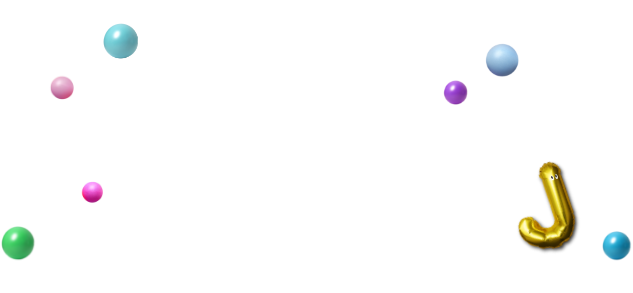
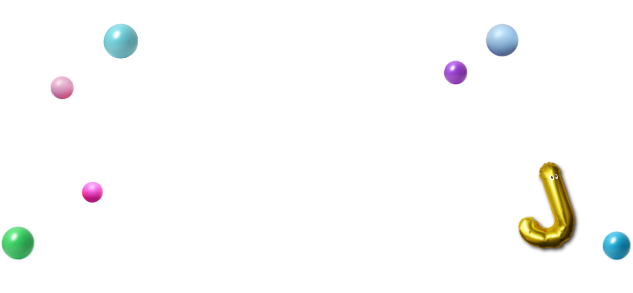
見出し小さく

Changed region(s): [[0.6904, 0.0614, 0.8404, 0.3686]]

diff --git a/items-service/css/items-service.css b/items-service/css/items-service.css
@@ -8,8 +8,8 @@
 ============================================================================================================ */
 .items-service_header {
 	position: relative;
-	height: 330px;
-	padding-top: 60px;
+	height: 270px;
+	padding-top: 50px;
 	text-align: center;
 	z-index: 1;
 }
@@ -33,14 +33,14 @@
 }
 .items-service_header .bg_en {
 	position: absolute;
-	top: 114px;
+	top: 54px;
 	left: 0;
 	right: 0;
 	z-index: -1;
 }
 .items-service_header .start {
 	position: absolute;
-	top: 120px;
+	top: 60px;
 	left: calc(50% + 152px);
 }
 .items-service_header .hanabi {
@@ -54,7 +54,7 @@
 	.items-service_header::before {
 		content: "";
 		position: absolute;
-		top: 10px;
+		top: -20px;
 		left: calc(50% - 292px);
 		width: 633px;
 		height: 293px;
@@ -62,19 +62,19 @@
 	}
 	.items-service_header .hanabi1 {
 		right: calc(50% + 316px);
-		top: 100px;
+		top: 70px;
 		width: 200px;
 	}
 	.items-service_header .hanabi2 {
 		left: calc(50% + 326px);
-		top: 6px;
+		top: -5px;
 		width: 270px;
 	}
 }
 @media screen and (max-width: 767px) {
 	.items-service_header {
-		height: 250px;
-		padding-top: 40px;
+		height: 160px;
+		padding-top: 20px;
 	}
 	.items-service_header::before {
 		content: "";
@@ -83,7 +83,7 @@
 		left: 0;
 		right: 0;
 		height: 250px;
-		background: url(../images/head_bg_sp.png) no-repeat 50%;
+		background: url(../images/head_bg_sp.png) no-repeat 50% -64px;
 		background-size: 375px;
 	}
 	.items-service_header h1 {
@@ -92,21 +92,21 @@
 		line-height: calc(35 / 23);
 	}
 	.items-service_header .bg_en {
-		top: 94px;
+		top: 24px;
 	}
 	.items-service_header .bg_en img {
 		width: auto;
 		height: 124px;
 	}
 	.items-service_header .start {
-		top: 80px;
-		left: calc(50% + 96px);
+		top: 15px;
+		left: calc(50% + 100px);
 		width: 80px;
 	}
 	.items-service_header .hanabi2 {
 		overflow: hidden;
 		right: 0;
-		top: 350px;
+		top: 250px;
 		width: 120px;
 	}
 	.items-service_header .hanabi2 img {
@@ -335,6 +335,9 @@ body.init .category_nav a {
 	}
 }
 @media screen and (max-width: 767px) {
+	.items {
+		margin-top: 30px;
+	}
 	.items::before {
 		top: 200px;
 	}

diff --git a/items-service/js/items-service.js b/items-service/js/items-service.js
@@ -52,10 +52,11 @@
 		if(!isSpW()) return;
 		var s = $(this).scrollTop();
 		var fn = $('.fix_category_nav');
+		var fnh = fn.outerHeight();
 		var bn = $('.base_nav');
 		var bnt = bn.offset().top;
 		var bnh = bn.outerHeight();
-		if(s < bnt + bnh - 75) {
+		if(s < bnt + bnh - 75 - fnh) {
 			if(fn.hasClass('show')) {
 				fn.removeClass('show');
 			}

diff --git a/items-service/index.php b/items-service/index.php
@@ -34,7 +34,6 @@ include_once 'common-meta.php';
 
 	<section>
 		<header class="items-service_header">
-			<p class="en ff_en">Anniversary Limited</p>
 			<h1>ジョイナス50周年<br>限定アイテム&サービス</h1>
 			<p class="bg_en"><img src="images/head_en.svg" alt="ANNIVERSARY ITEMS & SERVICE" width="440" height="160"></p>
 			<p class="start"><img src="images/head_start.png" alt="11.1 WED スタート！" width="87" height="87"></p>
